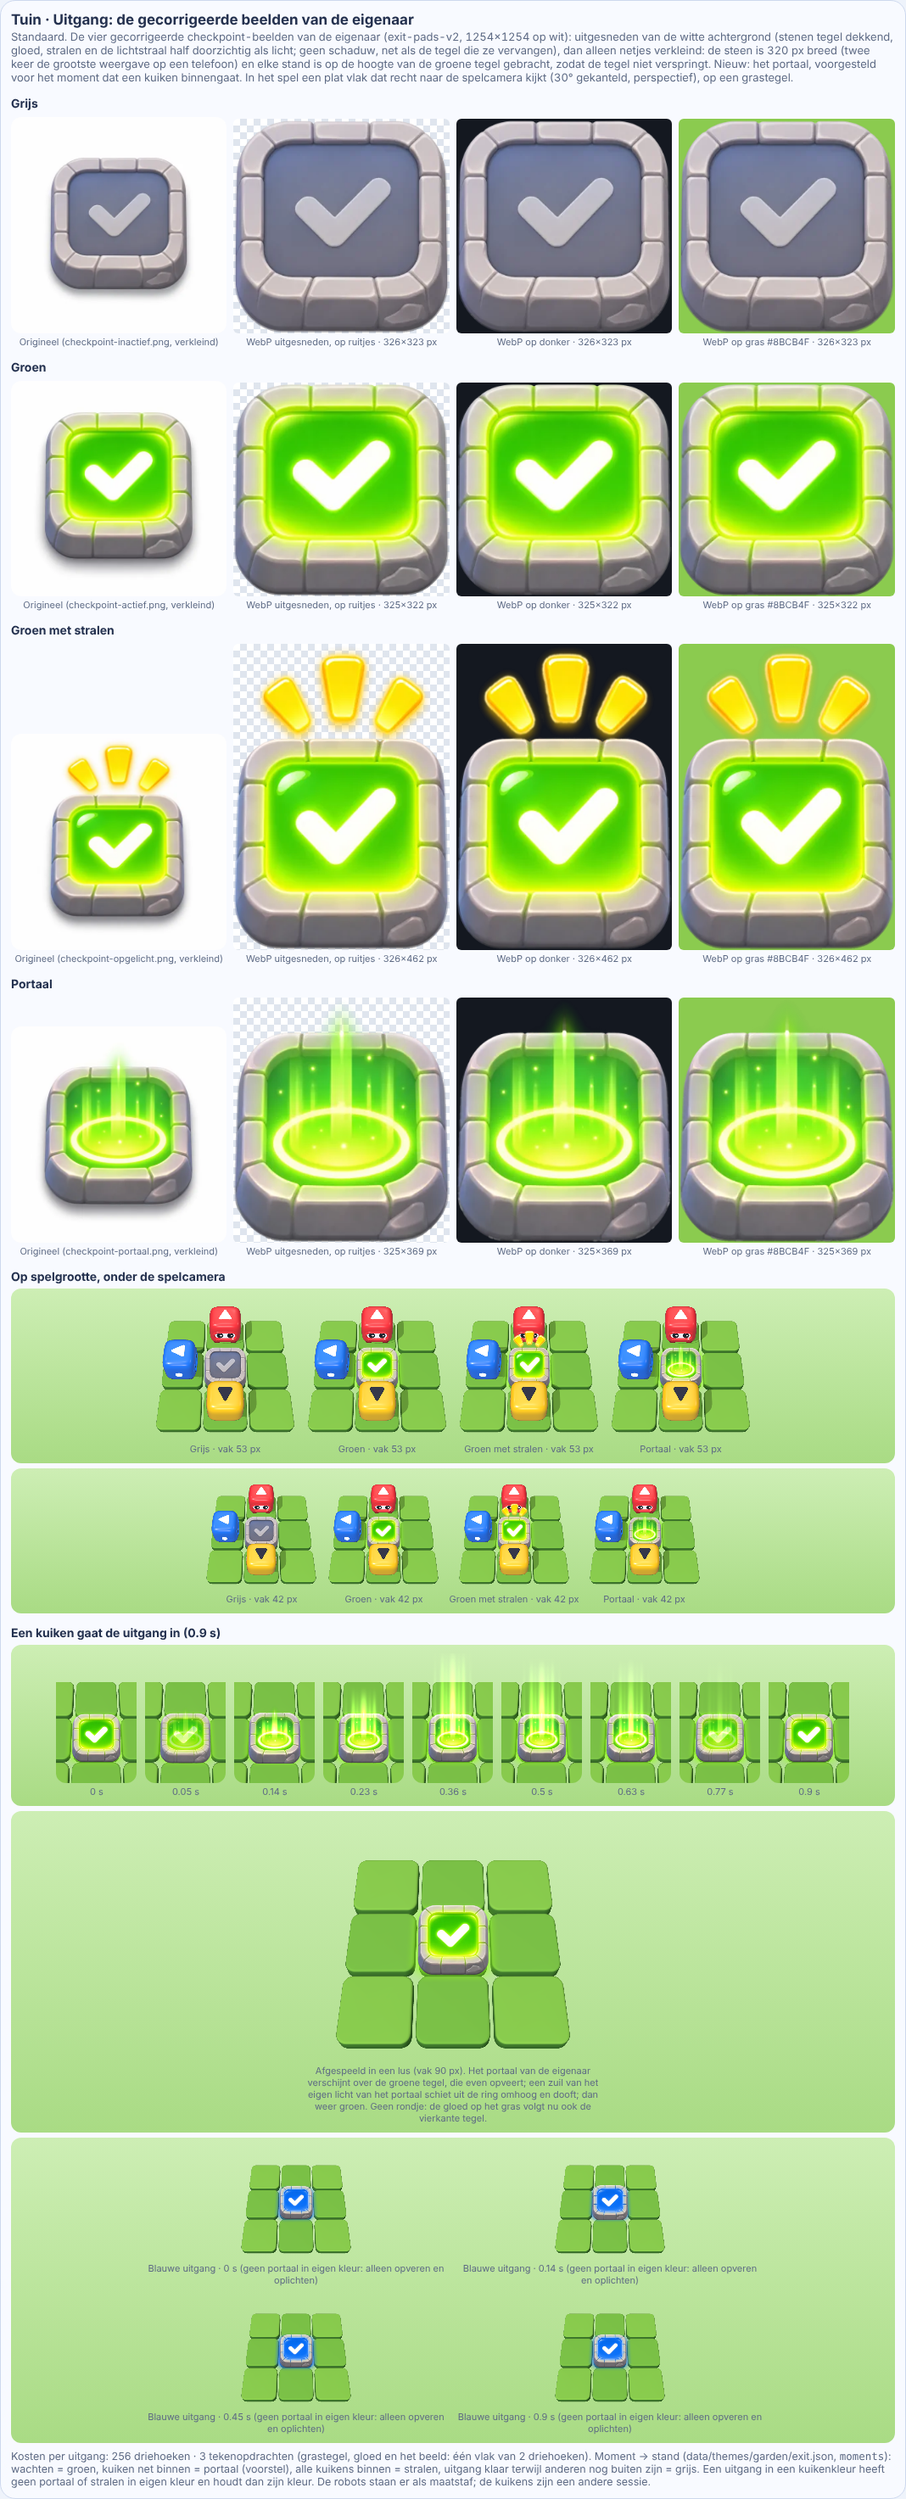
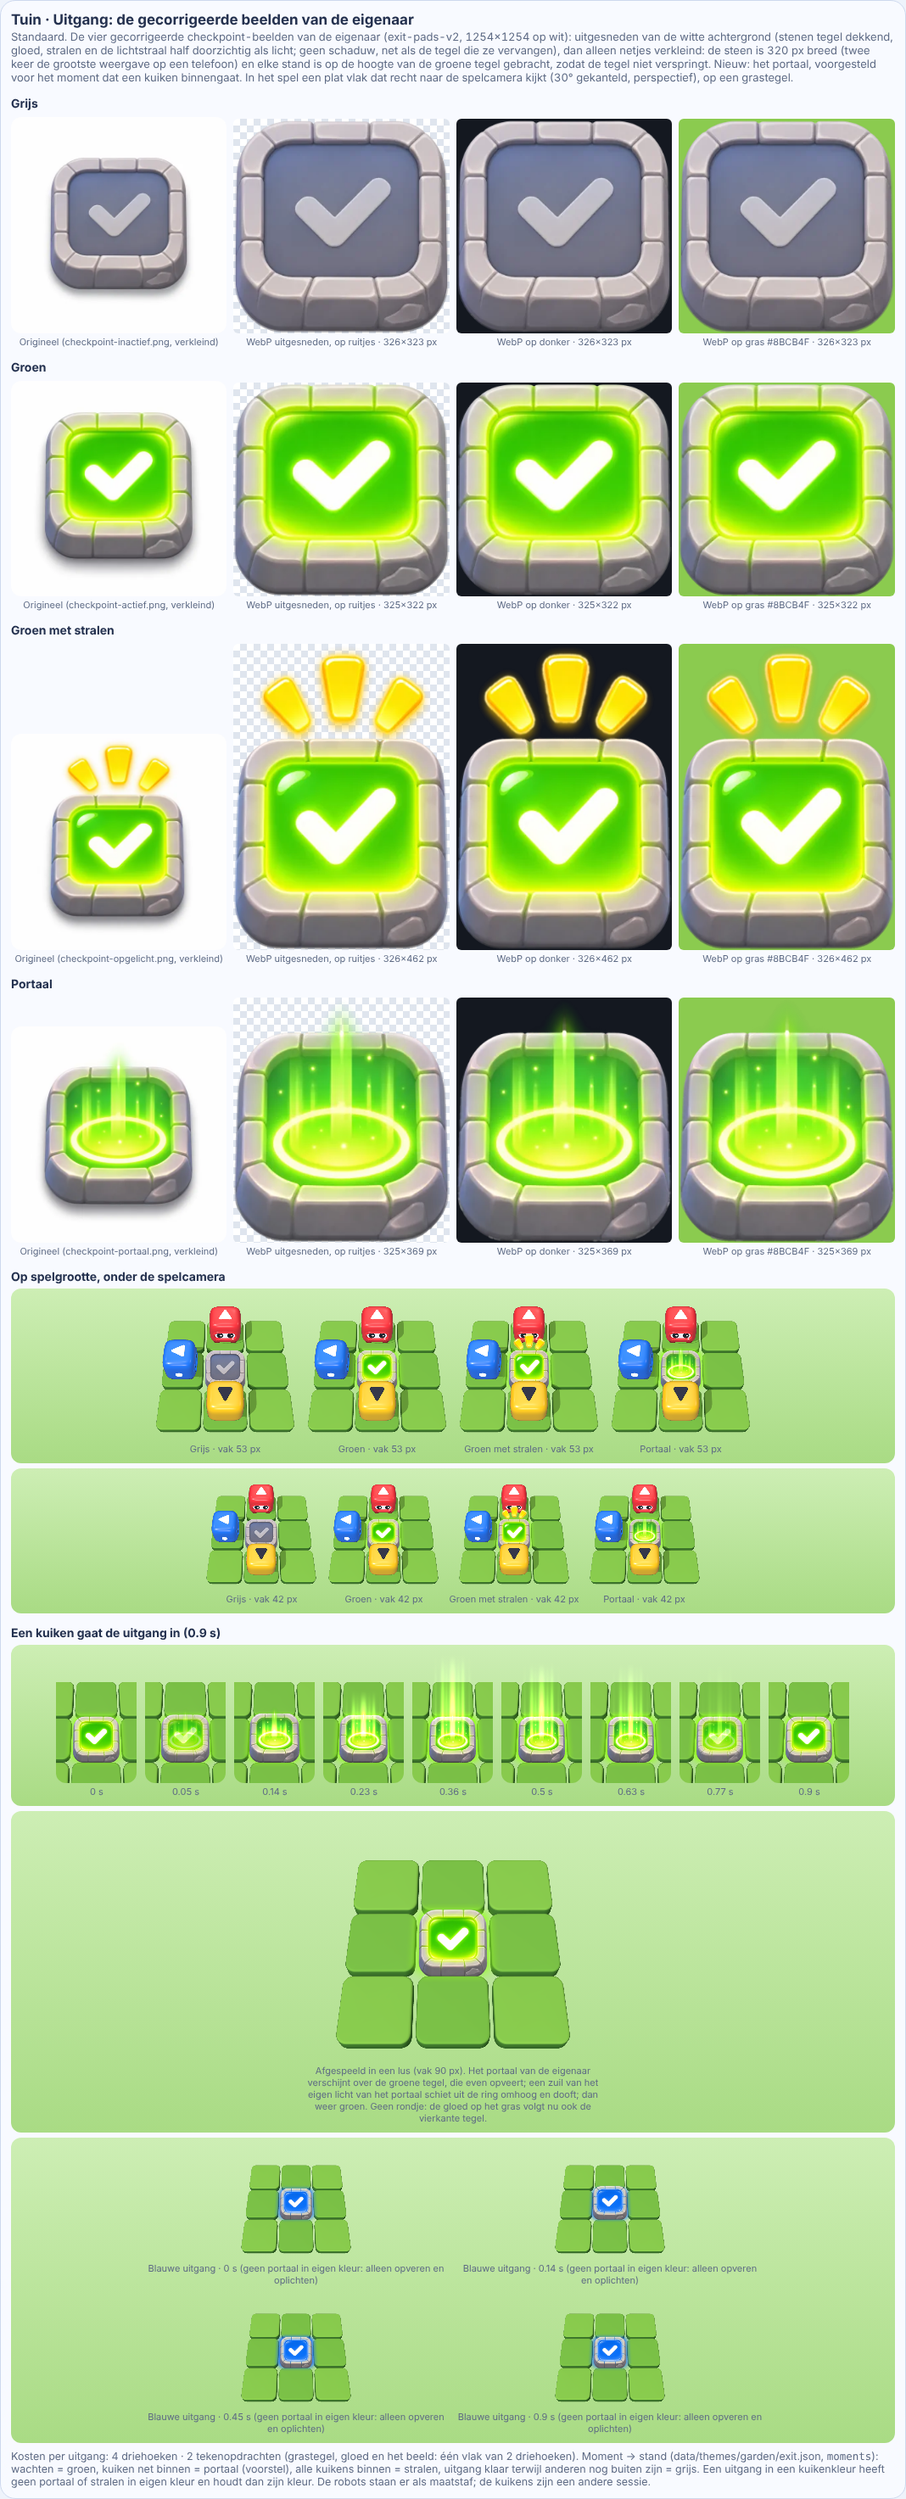
fix: garden pad pictures lined up with their cell
The square stone tile now is the cell's tile: one grass tile wide, its front foot
on the cell's front edge at floor level, no grass tile under it, scaled without
stretching. Applies to the exit in every look, the colour exits, the turn tile
and the plate; the portal's column of light follows. Tile boxes come from the
pipeline; a unit test checks the foot spans the cell's front edge.

Design: design/themes/garden-exit.md

Claude-Session: https://claude.ai/code/session_01PBSmYsYFMgx5mfBi9nhPCS
(cherry picked from commit b8349b4111b14dbcd198f19849f6d5e967d0e3b0)

diff --git a/src/render/parts/garden/exitPictures.ts b/src/render/parts/garden/exitPictures.ts
@@ -29,6 +29,8 @@ interface Sprite {
   width: number;
   height: number;
   anchor: number[];
+  /** Pad-shaped pictures: the stone tile's box (x0, y0, x1, y1, fractions from the top left). */
+  tile?: number[];
 }
 const SPRITES: Record<SpriteName, Sprite> = Object.assign({}, ...Object.values(FRAGMENTS).map((f) => f.sprites));
 const URLS: Record<SpriteName, string> = Object.fromEntries(Object.entries(FILES).map(([path, url]) => [path.replace(/^.*\/(.+)\.webp$/, '$1'), url]));
@@ -39,8 +41,6 @@ const TILT = THREE.MathUtils.degToRad(CONFIG.board.roomy.tilt);
 const TOWARDS_CAMERA = new THREE.Vector3(0, Math.cos(TILT), Math.sin(TILT));
 /** Height of a grass tile's top. */
 const TOP = garden.floorStandIn.height;
-/** Height of the painted pad's face above the floor, where the sprite's anchor goes. */
-const FACE = garden.exit.faceHeight;
 
 const textures = new Map<SpriteName, THREE.Texture>();
 const pending: Promise<void>[] = [];
@@ -104,14 +104,41 @@ function sprite(name: SpriteName, lift = 0): THREE.Group {
   return holder;
 }
 
-/** How far a sprite with its anchor at `height` must slide towards the camera so its lower edge stays above the grass. */
-function clearance(name: SpriteName, height: number): number {
+/** Width of a cell's tile: a pad picture's stone tile is drawn this wide. */
+const CELL = garden.floorStandIn.size;
+/** A hair towards the camera, so a tile picture standing on the floor never fights with it. */
+const TILE_LIFT = 0.006;
+
+/**
+ * A pad-shaped picture standing in for a cell's tile. The owner's stone tile is lined up with the
+ * cell: as wide as a grass tile, its front foot on the cell's front edge at floor level, so under the
+ * game camera its outline sits where the grass tile it replaces would be (its back edge lands on the
+ * cell's back edge, the stone reading about a quarter of a cell high). Scaled uniformly: the picture
+ * is not stretched. `ref` is the pad whose tile box places it; another picture (the portal's column
+ * of light) can share it, its own anchor landing on the ref's anchor. The holder's origin is the
+ * tile's front foot, so a pop scales it up from where it stands.
+ */
+function tileSprite(name: SpriteName, ref: SpriteName = name): THREE.Group {
+  const r = SPRITES[ref];
   const s = SPRITES[name];
-  const below = (1 - s.anchor[1]) * s.height;
-  // The quad leans back by 90° - tilt, so going `below` down its own height drops `below * sin(tilt)`.
-  const drop = below * Math.sin(TILT);
-  const need = drop - (height - TOP) + 0.01;
-  return Math.max(0, need / TOWARDS_CAMERA.y);
+  if (!r.tile) throw new Error(`garden exit picture "${ref}" has no tile box: run tools/asset-pipeline/garden_exit/build.py`);
+  const [x0, , x1, y1] = r.tile;
+  const k = CELL / ((x1 - x0) * r.width);
+  // The ref's anchor, measured from the tile's front foot (x right, y up the picture), in cells.
+  const ax = (r.anchor[0] - (x0 + x1) / 2) * r.width * k;
+  const ay = (y1 - r.anchor[1]) * r.height * k;
+  const w = s.width * k;
+  const h = s.height * k;
+  const quad = new THREE.Mesh(new THREE.PlaneGeometry(w, h), material(name));
+  quad.position.set(ax + (0.5 - s.anchor[0]) * w, ay + (s.anchor[1] - 0.5) * h, 0);
+  quad.name = name;
+  quad.renderOrder = 2;
+  const holder = new THREE.Group();
+  holder.rotation.x = -(Math.PI / 2 - TILT);
+  holder.add(quad);
+  holder.position.set(0, 0, CELL / 2).addScaledVector(TOWARDS_CAMERA, TILE_LIFT);
+  holder.userData.sprite = name;
+  return holder;
 }
 
 function exitSpriteName(look: ExitLook, color?: Color): SpriteName {
@@ -186,7 +213,7 @@ function exitGlowMap(color?: Color): THREE.Texture {
 export function buildExit(color?: Color, look: ExitLook = EXIT_MOMENT_LOOKS.waiting): THREE.Group {
   const pad = new THREE.Group();
   pad.name = 'garden-exit-picture';
-  pad.add(buildFloorTile(false, false));
+  // The stone tile is the cell's tile: no grass tile under it.
   pad.userData.color = color;
   const span = 2 * garden.exit.radius + 2 * garden.exit.glowReach;
   const light = new THREE.PlaneGeometry(span, span);
@@ -211,14 +238,12 @@ export function setExitLook(pad: THREE.Group, look: ExitLook): void {
   }
   // Rays and portal exist only in the owner's green: a colour exit keeps its own colour then.
   const name = color && (look === 'rays' || look === 'portal') ? exitSpriteName('green', color) : exitSpriteName(look, color);
-  const main = sprite(name, clearance(name, TOP + FACE));
-  main.position.y += TOP + FACE;
+  const main = tileSprite(name);
   pad.add(main);
   pad.userData.check = main;
   if (color) {
     const shapeName = (look === 'grey' ? 'exit-grey' : `exit-shape-${color}`) as SpriteName;
-    const shape = sprite(shapeName, clearance(shapeName, TOP + FACE));
-    shape.position.y += TOP + FACE;
+    const shape = tileSprite(shapeName);
     shape.visible = false;
     pad.add(shape);
     pad.userData.shape = shape;
@@ -250,21 +275,19 @@ function entryLayers(pad: THREE.Group): EntryLayers {
   layers = { portal: null, portalMat: null, beam: null, beamQuad: null, beamMat: null, beamBottom: 0, beamHeight: 0, glowOpacity: 0 };
   if (!color) {
     // Own materials: the shared ones of the pictures must not fade on every exit at once.
-    layers.portal = sprite('exit-portal', clearance('exit-portal', TOP + FACE));
-    layers.portal.position.y += TOP + FACE;
+    layers.portal = tileSprite('exit-portal');
     const quad = layers.portal.children[0] as THREE.Mesh;
     layers.portalMat = new THREE.MeshBasicMaterial({ map: texture('exit-portal'), transparent: true, opacity: 0, depthWrite: false, toneMapped: false });
     quad.material = layers.portalMat;
     quad.renderOrder = 3;
-    layers.beam = sprite('exit-portal-beam', clearance('exit-portal', TOP + FACE));
-    layers.beam.position.y += TOP + FACE;
+    layers.beam = tileSprite('exit-portal-beam', 'exit-portal');
     layers.beamQuad = layers.beam.children[0] as THREE.Mesh;
     layers.beamMat = new THREE.MeshBasicMaterial({ map: texture('exit-portal-beam'), transparent: true, opacity: 0, depthWrite: false, toneMapped: false, blending: THREE.AdditiveBlending });
     layers.beamQuad.material = layers.beamMat;
     layers.beamQuad.renderOrder = 4;
-    const s = SPRITES['exit-portal-beam'];
-    layers.beamHeight = s.height;
-    layers.beamBottom = layers.beamQuad.position.y - s.height / 2;
+    const beamGeometry = layers.beamQuad.geometry as THREE.PlaneGeometry;
+    layers.beamHeight = beamGeometry.parameters.height;
+    layers.beamBottom = layers.beamQuad.position.y - layers.beamHeight / 2;
     layers.portal.visible = false;
     layers.beam.visible = false;
     pad.add(layers.portal, layers.beam);
@@ -314,15 +337,15 @@ export function exitEntry(pad: THREE.Group, k: number, calm = false): void {
 }
 
 /**
- * Turn tile: a cream pad with the clockwise arrow of the owner's turn button, on a grass tile.
+ * Turn tile: a cream pad with the clockwise arrow of the owner's turn button, standing in for the cell's tile.
  * A painted picture cannot turn with the chick, so `userData.disc` is an empty group (turning it is
  * harmless); `userData.glow` is a ring of light the game flashes while the tile turns a chick.
  */
-export function buildTurnTile(alt = false, pegs = true): THREE.Group {
-  const tile = buildFloorTile(alt, pegs);
-  const pic = sprite('turn', clearance('turn', TOP + FACE * 0.6));
-  pic.position.y += TOP + FACE * 0.6;
-  tile.add(pic);
+export function buildTurnTile(_alt = false, _pegs = true): THREE.Group {
+  // The stone tile is the cell's tile: no grass tile under it.
+  const tile = new THREE.Group();
+  tile.name = 'garden-turn-picture';
+  tile.add(tileSprite('turn'));
   const disc = new THREE.Group();
   disc.name = 'turn-disc';
   disc.position.y = TOP;
@@ -340,13 +363,13 @@ export function buildTurnTile(alt = false, pegs = true): THREE.Group {
   return tile;
 }
 
-/** Pressure plate: the owner's pad retoned lavender, on a grass tile. `userData.button` is the picture; the game lowers it while a chick stands on it. */
-export function buildPlate(alt = false, pegs = true): THREE.Group {
-  const plate = buildFloorTile(alt, pegs);
+/** Pressure plate: the owner's pad retoned lavender, standing in for the cell's tile. `userData.button` is the picture; the game lowers it while a chick stands on it. */
+export function buildPlate(_alt = false, _pegs = true): THREE.Group {
+  // The stone tile is the cell's tile: no grass tile under it.
+  const plate = new THREE.Group();
+  plate.name = 'garden-plate-picture';
   const button = new THREE.Group();
-  const pic = sprite('plate', clearance('plate', TOP + FACE * 0.6));
-  button.add(pic);
-  button.position.y = TOP + FACE * 0.6;
+  button.add(tileSprite('plate'));
   button.userData.restY = button.position.y;
   plate.add(button);
   plate.userData.button = button;

diff --git a/tests/unit/garden-exit.test.ts b/tests/unit/garden-exit.test.ts
@@ -243,7 +243,7 @@ describe('garden picture parts (the standard version) keep the robot contract', 
     expect(normal.z).toBeCloseTo(Math.sin(tilt), 5);
   });
 
-  it('picture quads stay above the grass', () => {
+  it('picture quads stay above the floor', () => {
     for (const part of [pic.buildExit(undefined, 'rays'), pic.buildExit(undefined, 'portal'), pic.buildTurnTile(false, false), pic.buildPlate(false, false)]) {
       part.updateMatrixWorld(true);
       let lowest = Infinity;
@@ -254,7 +254,28 @@ describe('garden picture parts (the standard version) keep the robot contract', 
         }
       });
       expect(lowest).toBeLessThan(1);
-      expect(lowest).toBeGreaterThanOrEqual(garden.floorStandIn.height - 1e-6);
+      expect(lowest).toBeGreaterThanOrEqual(0);
+    }
+  });
+
+  it('picture pads line their stone tile up with the cell', () => {
+    // The stone tile's front foot, corner to corner, lies on the cell's front edge, a cell wide.
+    const sprites = Object.assign({}, ...Object.values(import.meta.glob<{ sprites: Record<string, { width: number; height: number; anchor: number[]; tile?: number[] }> }>('../../data/themes/garden/exit-sprites/*.json', { eager: true, import: 'default' })).map((f) => f.sprites));
+    for (const [part, name] of [[pic.buildExit(undefined, 'green'), 'exit-green'], [pic.buildExit(undefined, 'grey'), 'exit-grey'], [pic.buildExit(undefined, 'rays'), 'exit-rays'], [pic.buildExit('red'), 'exit-red'], [pic.buildTurnTile(false, false), 'turn']] as [THREE.Group, string][]) {
+      part.updateMatrixWorld(true);
+      const quad = part.getObjectByName(name) as THREE.Mesh;
+      const geo = quad.geometry as THREE.PlaneGeometry;
+      const s = sprites[name];
+      const [x0, , x1, y1] = s.tile;
+      const at = (fx: number, fy: number) => new THREE.Vector3((fx - 0.5) * geo.parameters.width, (0.5 - fy) * geo.parameters.height, 0).applyMatrix4(quad.matrixWorld);
+      const left = at(x0, y1);
+      const right = at(x1, y1);
+      expect(right.x - left.x).toBeCloseTo(garden.floorStandIn.size, 4);
+      expect((left.x + right.x) / 2).toBeCloseTo(0, 2);
+      // On the front edge, seen from the camera: the foot is only slid towards the camera by a hair.
+      expect(left.y).toBeGreaterThanOrEqual(0);
+      expect(left.y).toBeLessThan(0.01);
+      expect(left.z).toBeCloseTo(garden.floorStandIn.size / 2, 2);
     }
   });
 

diff --git a/src/parts/garden-exit-pictures.ts b/src/parts/garden-exit-pictures.ts
@@ -181,7 +181,7 @@ export function addPictureCards(sheet: HTMLElement, k: Kit): void {
       const f = k.field(null, [...tiles, [0, 0, k.bot('red', 0)], [1, 1, k.bot('blue', 2)], [-1, 1, k.bot('yellow', 1)]]);
       game.appendChild(k.figure(k.inGame(f, 3, 3, cellPx), `Vak ${cellPx} px · boven: draaitegel, drukplaat, poort dicht · midden: uitgang, plaat met robot, poort open`));
     }
-    k.note(el, `Kosten: draaitegel ${k.cost(pic.buildTurnTile(false, false))}, drukplaat ${k.cost(pic.buildPlate(false, false))}, poort ${k.cost(pic.buildGate(false, false))}, elk inclusief de grastegel. Een geschilderd plaatje kan niet meedraaien met het kuiken: bij de draaitegel draait alleen de lichtring. De grastegel hier is een eenvoudige stand-in; de echte grastegel is van de bordsessie.`);
+    k.note(el, `Kosten: draaitegel ${k.cost(pic.buildTurnTile(false, false))}, drukplaat ${k.cost(pic.buildPlate(false, false))}, poort ${k.cost(pic.buildGate(false, false))}. Draaitegel, drukplaat en uitgang zijn zelf de tegel van het vak (geen grastegel eronder, de steen precies op het vak uitgelijnd); de poort staat op een grastegel. Een geschilderd plaatje kan niet meedraaien met het kuiken: bij de draaitegel draait alleen de lichtring. De grastegel hier is een eenvoudige stand-in; de echte grastegel is van de bordsessie.`);
     sheet.appendChild(el);
   }
 

diff --git a/tools/asset-pipeline/garden_exit/lib.py b/tools/asset-pipeline/garden_exit/lib.py
@@ -275,15 +275,21 @@ def upscale(rgba: np.ndarray, factor: float, sharpen: float = 0.9, radius: float
     return np.dstack([rgb, alpha])
 
 
-def write_part(part: str, sprites: dict[str, tuple[np.ndarray, tuple[float, float], float]]) -> None:
-    """Write each sprite (rgba, anchor in px, cells per px) as WebP and the part's size fragment.
+def write_part(part: str, sprites: dict[str, tuple]) -> None:
+    """Write each sprite (rgba, anchor in px, cells per px[, tile box in px]) as WebP and the part's
+    size fragment.
 
     The anchor is the point the game puts over the cell centre (for pads: the face centre); the
-    fragment gives each sprite's width and height in cells and the anchor as fractions."""
+    fragment gives each sprite's width and height in cells and the anchor as fractions. A pad-shaped
+    picture also gives `tile`: the stone tile's box (x0, y0, x1, y1, fractions), which the game lines
+    up with the cell it stands on."""
     entries = {}
-    for name, (rgba, anchor, cells_per_px) in sprites.items():
+    for name, (rgba, anchor, cells_per_px, *rest) in sprites.items():
         save(to_image(rgba), name)
         h, w = rgba.shape[:2]
         entries[name] = {"width": round(w * cells_per_px, 4), "height": round(h * cells_per_px, 4), "anchor": [round(anchor[0] / w, 4), round(anchor[1] / h, 4)]}
+        if rest and rest[0] is not None:
+            x0, y0, x1, y1 = rest[0]
+            entries[name]["tile"] = [round(x0 / w, 4), round(y0 / h, 4), round(x1 / w, 4), round(y1 / h, 4)]
     FRAGMENTS.mkdir(parents=True, exist_ok=True)
     (FRAGMENTS / f"{part}.json").write_text(json.dumps({"_about": f"Written by tools/asset-pipeline/garden_exit/{part}.py: size in cells and anchor (fractions from the top left) of each picture.", "sprites": entries}, indent=2) + "\n")

diff --git a/tools/asset-pipeline/garden_exit/exit_pads.py b/tools/asset-pipeline/garden_exit/exit_pads.py
@@ -113,8 +113,13 @@ def hires_pad(look: str) -> tuple[np.ndarray, tuple[float, float]]:
     return rgba, at
 
 
-def _levelled(look: str) -> tuple[np.ndarray, tuple[float, float], float]:
-    """`hires_pad` plus the tile's top row in output px."""
+def tile_box(look: str = "green") -> tuple[float, float, float, float]:
+    """The stone tile's box (x0, y0, x1, y1) in `hires_pad(look)`'s px, edges not pixel centres."""
+    return _levelled(look)[2]
+
+
+def _levelled(look: str) -> tuple[np.ndarray, tuple[float, float], tuple[float, float, float, float]]:
+    """`hires_pad` plus the tile's box in output px."""
     rgba, (x0, y0, x1, y1) = _scaled(look)
     if LEVEL and look != "green":
         _, (_, gy0, _, gy1) = _scaled("green")
@@ -123,7 +128,7 @@ def _levelled(look: str) -> tuple[np.ndarray, tuple[float, float], float]:
         k = rgba.shape[0] / _scaled(look)[0].shape[0]
         y0, y1 = y0 * k, y1 * k
     fx, fy = face_fraction()
-    return rgba.copy(), (x0 + fx * (x1 - x0) - 0.5, y0 + fy * (y1 - y0) - 0.5), y0
+    return rgba.copy(), (x0 + fx * (x1 - x0) - 0.5, y0 + fy * (y1 - y0) - 0.5), (x0, y0, x1, y1)
 
 
 # For the entry animation (exitPictures.exitEntry): a column of the portal's own light that the game
@@ -198,7 +203,7 @@ def run() -> None:
     for look in LOOKS:
         rgba, at = hires_pad(look)
         print(f"exit-{look}: {rgba.shape[1]}x{rgba.shape[0]} px, anchor ({at[0]:.1f}, {at[1]:.1f})")
-        sprites[f"exit-{look}"] = (rgba, at, 1.0 / PAD_STONE_OUT_PX)
+        sprites[f"exit-{look}"] = (rgba, at, 1.0 / PAD_STONE_OUT_PX, tile_box(look))
     beam, bat = portal_beam()
     ring = ring_centre_row(hires_pad("portal")[0])
     sprites["exit-portal-beam"] = (beam, bat, 1.0 / PAD_STONE_OUT_PX)

diff --git a/tools/asset-pipeline/garden_exit/turn.py b/tools/asset-pipeline/garden_exit/turn.py
@@ -22,7 +22,7 @@ import numpy as np
 from scipy import ndimage
 
 from checkpoints import PAD_STONE_OUT_PX, shrink, source
-from exit_pads import face_ellipse, hires_pad, stone_width
+from exit_pads import face_ellipse, hires_pad, stone_width, tile_box
 from lib import CREAM, LEAF, lit_mask, retone, tick_mask, write_part
 from turn_arrow import bounds, fit, render
 
@@ -117,4 +117,4 @@ def run() -> None:
     pad, anchor = hires_pad("green")
     small = shrink(img, PAD_STONE_OUT_PX / stone_width(source("green"), "green"))
     assert small.shape == pad.shape, (small.shape, pad.shape)
-    write_part("turn", {"turn": (small, anchor, 1.0 / PAD_STONE_OUT_PX)})
+    write_part("turn", {"turn": (small, anchor, 1.0 / PAD_STONE_OUT_PX, tile_box("green"))})

diff --git a/tools/asset-pipeline/garden_exit/colour_exits.py b/tools/asset-pipeline/garden_exit/colour_exits.py
@@ -301,5 +301,6 @@ def run() -> None:
     sprites = {}
     for name, rgba in pads.items():
         if not name.startswith("_"):
-            sprites[name] = (to_frame(rgba, size), at, 1.0 / PAD_STONE_OUT_PX)
+            from exit_pads import tile_box
+            sprites[name] = (to_frame(rgba, size), at, 1.0 / PAD_STONE_OUT_PX, tile_box("green"))
     write_part("colour_exits", sprites)

diff --git a/tools/asset-pipeline/garden_exit/plate.py b/tools/asset-pipeline/garden_exit/plate.py
@@ -229,4 +229,5 @@ def build() -> tuple[np.ndarray, tuple[float, float]]:
 
 def run() -> None:
     plate, at = build()
-    write_part("plate", {"plate": (plate, at, 1.0 / PAD_STONE_OUT_PX)})
+    from exit_pads import tile_box
+    write_part("plate", {"plate": (plate, at, 1.0 / PAD_STONE_OUT_PX, tile_box("green"))})

diff --git a/design/themes/garden-exit.md b/design/themes/garden-exit.md
@@ -322,3 +322,22 @@ sink into the pad is the chick session's.
 
 Parts sheet: a filmstrip of nine frames, a looping version at 90 px a cell, and the colour exit.
 Evidence: `production/qa/evidence/garden-exit/garden-exit-entry.png`.
+
+## Lined up with the cell (2026-11-25)
+
+The owner: "de uitlijning van tegel is nog niet goed". The square stone tile was placed like the old
+round plinth: on top of a grass tile, its face centre over the cell centre, so it stood too high (its
+back over the cells behind, a strip of grass showing in front). Now every pad-shaped picture (exit
+in all looks, colour exits, turn tile, plate) *is* the cell's tile (`tileSprite` in exitPictures.ts):
+
+- no grass tile under it;
+- the stone tile's box (`tile` in each sprite fragment, written by the pipeline) is scaled to one
+  grass tile wide (`floorStandIn.size`), uniformly, so the picture is not stretched;
+- its front foot sits on the cell's front edge at floor level, so under the game camera the outline
+  falls where the grass tile would be; its back edge then lands on the cell's back edge (the stone
+  reads about a quarter of a cell high, the grass tile 0.2);
+- the portal's column of light shares the portal's placement.
+
+The quad's origin is now the tile's front foot, so the entry pop grows the pad up from where it
+stands. Evidence: `production/qa/evidence/garden-exit/garden-exit-aligned.png`. Tested: the tile's
+foot spans the cell's front edge (`picture pads line their stone tile up with the cell`).
